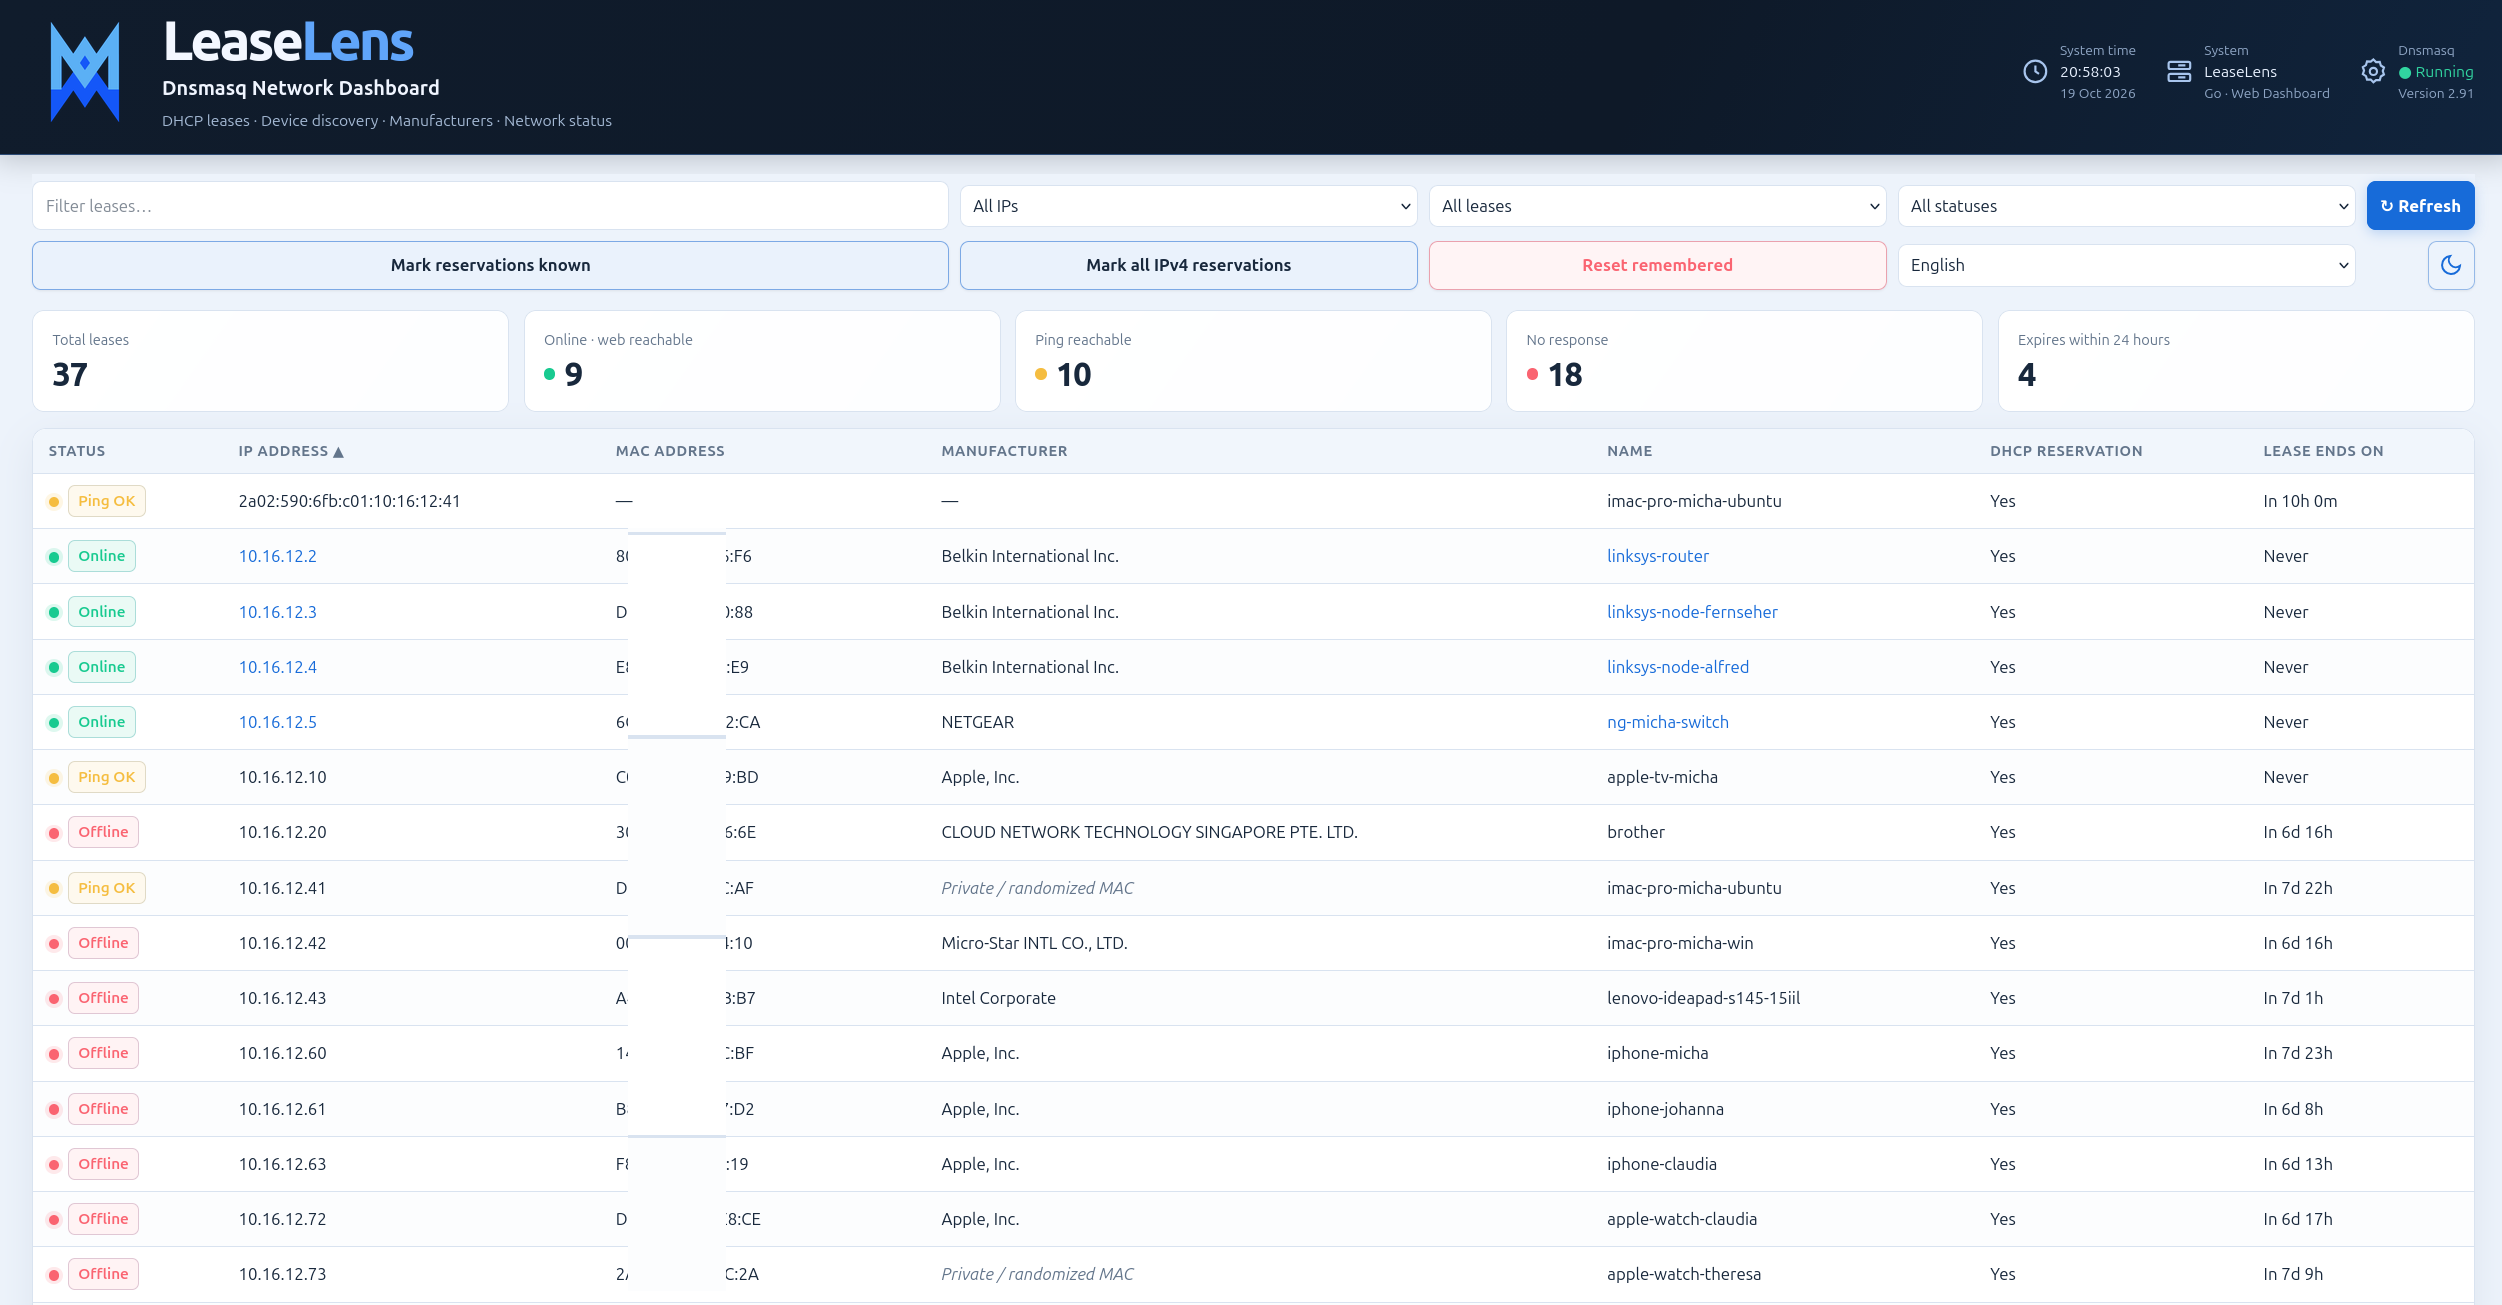
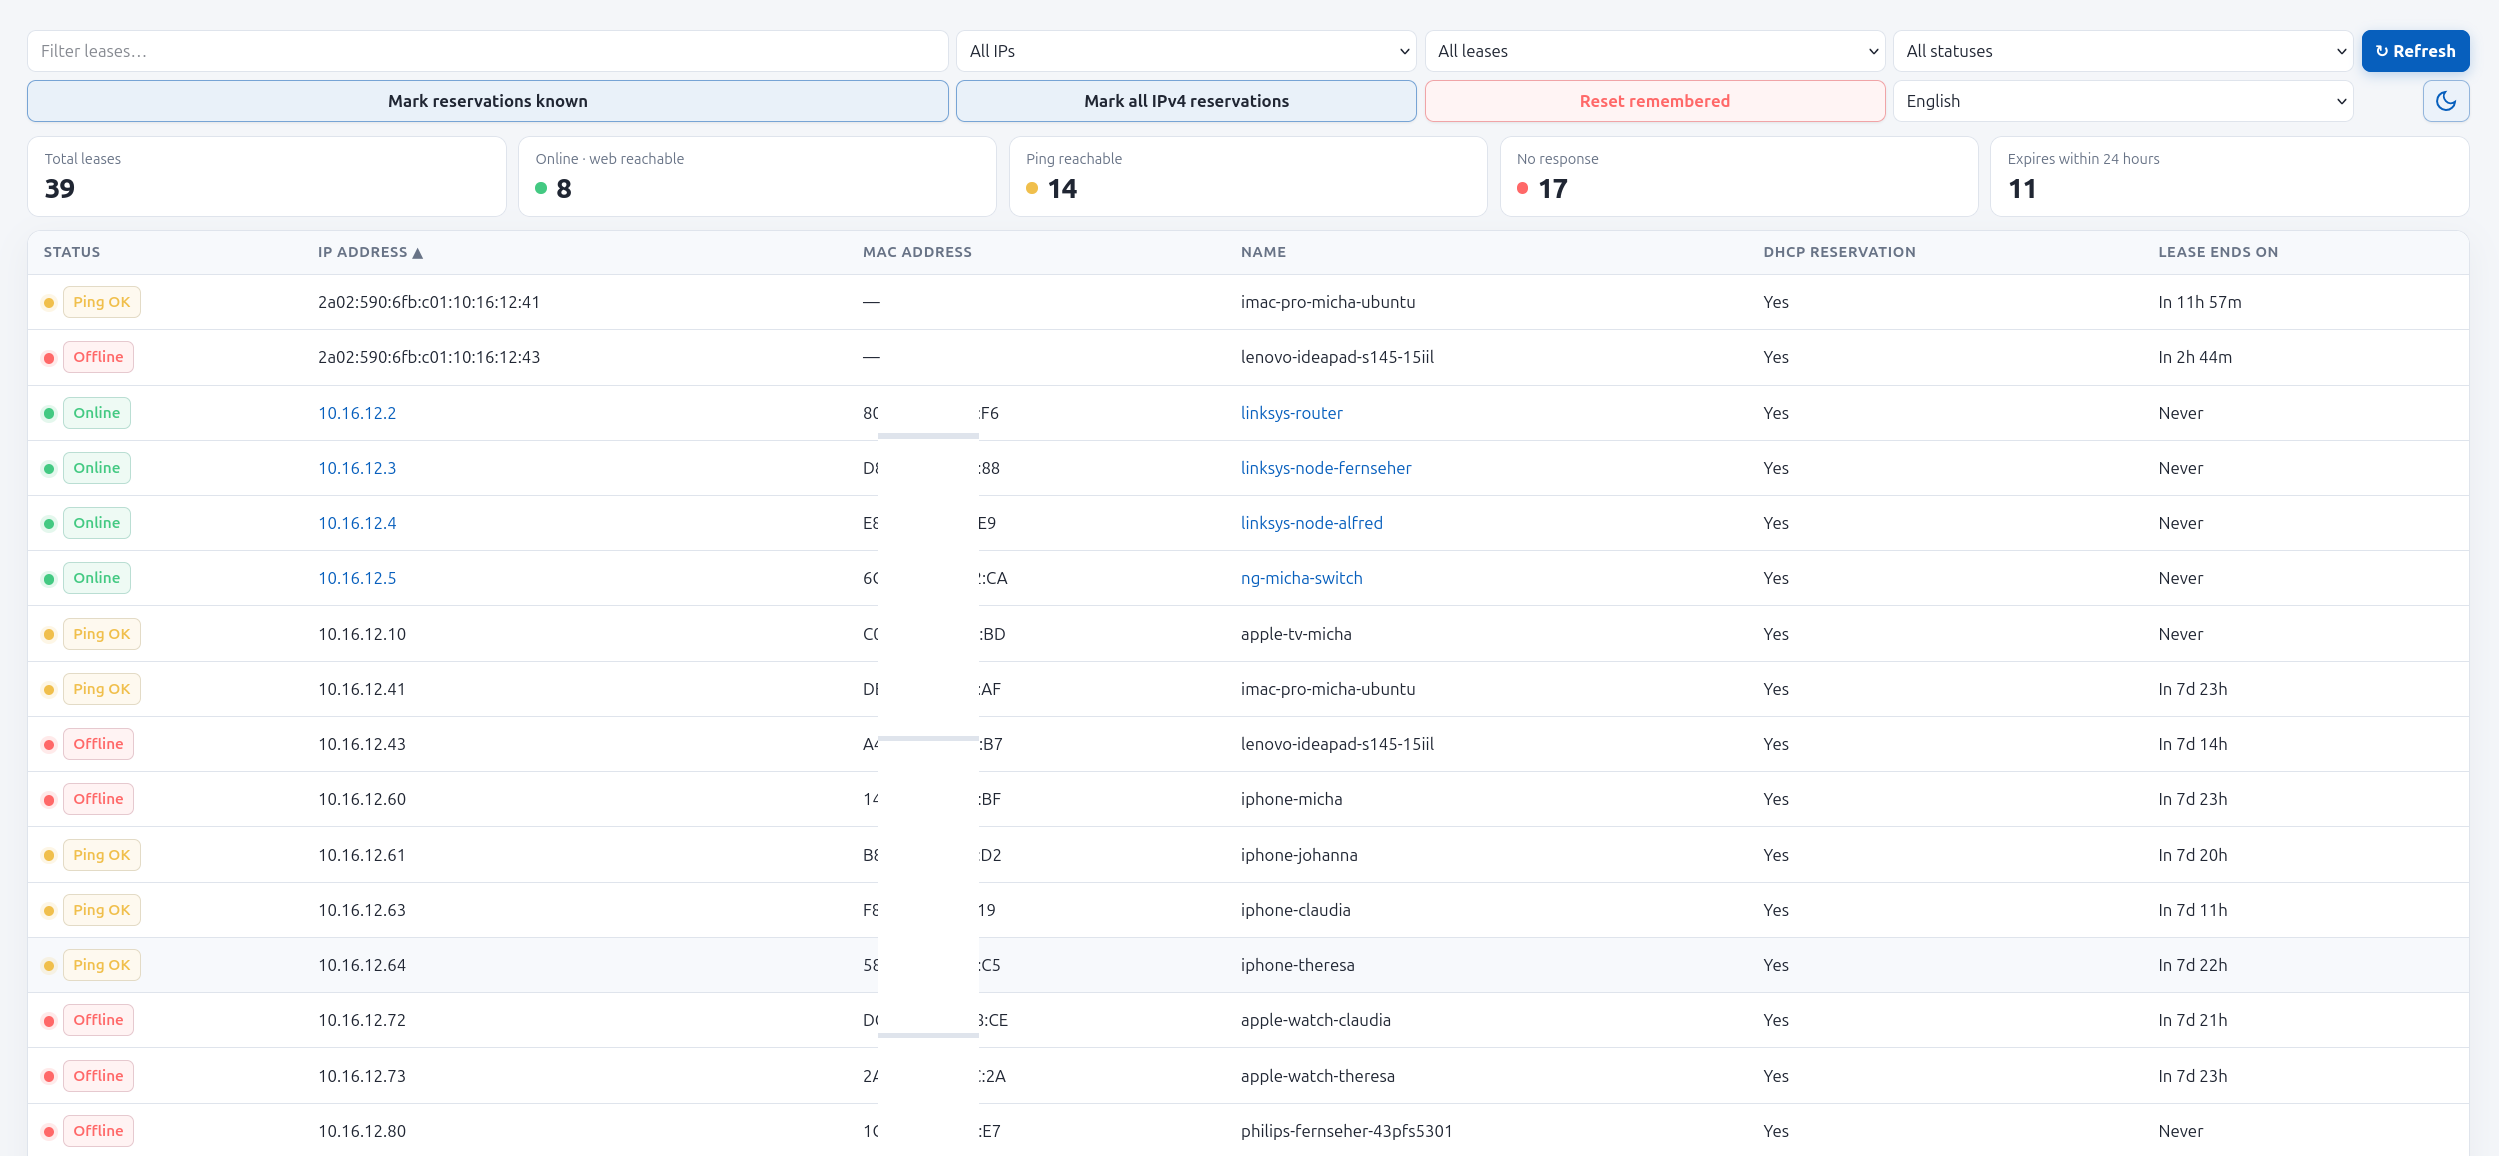
System

diff --git a/templates/index.html b/templates/index.html
@@ -160,7 +160,7 @@ tbody tr:hover { background:color-mix(in srgb,var(--accent) 10%,var(--surface))!
     <div class="brand-copy"><h1 id="brand-title">Lease<span>Lens</span></h1><p id="brand-subtitle" data-i18n="brandSubtitle">Dnsmasq Network Dashboard</p><p id="brand-description" data-i18n="brandDescription">DHCP Leases · Geräteerkennung · Hersteller · Netzwerkstatus</p></div>
     <div id="brand-meta" aria-label="Systeminformationen">
       <div class="brand-meta-item"><svg viewBox="0 0 24 24" fill="none" stroke="currentColor" stroke-width="1.8" aria-hidden="true"><circle cx="12" cy="12" r="9"/><path d="M12 7v5l3 2"/></svg><div><span class="brand-meta-label" data-i18n="systemTime">Systemzeit</span><span class="brand-meta-value" id="system-clock">--:--:--</span><span class="brand-meta-label" id="system-date">--.--.----</span></div></div>
-      <div class="brand-meta-item"><svg viewBox="0 0 24 24" fill="none" stroke="currentColor" stroke-width="1.8" aria-hidden="true"><rect x="3" y="4" width="18" height="6" rx="1.5"/><rect x="3" y="14" width="18" height="6" rx="1.5"/><path d="M7 7h.01M7 17h.01M11 7h6M11 17h6"/></svg><div><span class="brand-meta-label" data-i18n="systemLabel">System</span><span class="brand-meta-value">LeaseLens</span><span class="brand-meta-label" data-i18n="systemDescription">Go · Web Dashboard</span></div></div>
+      <div class="brand-meta-item"><svg viewBox="0 0 24 24" fill="none" stroke="currentColor" stroke-width="1.8" aria-hidden="true"><rect x="3" y="4" width="18" height="6" rx="1.5"/><rect x="3" y="14" width="18" height="6" rx="1.5"/><path d="M7 7h.01M7 17h.01M11 7h6M11 17h6"/></svg><div><span class="brand-meta-label" data-i18n="systemLabel">System</span><span class="brand-meta-value">{{.SystemName}}</span><span class="brand-meta-label" data-i18n="systemDescription">Go · Web Dashboard</span></div></div>
       <div class="brand-meta-item"><svg viewBox="0 0 24 24" fill="none" stroke="currentColor" stroke-width="1.8" aria-hidden="true"><path d="M12 2l2.2 2.2 3.1-.1.9 3 2.6 1.7-1 2.9 1 2.9-2.6 1.7-.9 3-3.1-.1L12 21l-2.2-2.2-3.1.1-.9-3-2.6-1.7 1-2.9-1-2.9 2.6-1.7.9-3 3.1.1z"/><circle cx="12" cy="12" r="3"/></svg><div><span class="brand-meta-label">Dnsmasq</span><span class="brand-meta-value" id="dnsmasq-state" data-i18n="dnsmasqRunning">● Läuft</span><span class="brand-meta-label" id="dnsmasq-version-label" data-i18n-version="{{.DnsmasqVersion}}">{{if .DnsmasqVersion}}Version {{.DnsmasqVersion}}{{else}}Status wird überwacht{{end}}</span></div></div>
     </div>
   </header>

diff --git a/internal/app/config.go b/internal/app/config.go
@@ -55,6 +55,7 @@ type Config struct {
 	AppVersion    string
 	ReleaseDate   string
 	RepoURL       string
+	SystemName    string
 }
 
 // loadConfig reads runtime options from environment variables.
@@ -69,6 +70,7 @@ func loadConfig() Config {
 		AppVersion:    getenv("APP_VERSION", buildVersion),
 		ReleaseDate:   getenv("APP_RELEASE_DATE", buildReleaseDate),
 		RepoURL:       getenv("REPO_URL", "https://github.com/anonymous-writer/leaselens-dnsmasq"),
+		SystemName:    getenv("SYSTEM_NAME", "LeaseLens"),
 	}
 }
 
@@ -123,6 +125,7 @@ func loadConfigFromArgs(args []string) (Config, string, error) {
 	flags.StringVar(&cfg.AppVersion, "app-version", cfg.AppVersion, "Application version (environment: APP_VERSION)")
 	flags.StringVar(&cfg.ReleaseDate, "release-date", cfg.ReleaseDate, "Application release date (environment: APP_RELEASE_DATE)")
 	flags.StringVar(&cfg.RepoURL, "repo-url", cfg.RepoURL, "Repository URL (environment: REPO_URL)")
+	flags.StringVar(&cfg.SystemName, "system-name", cfg.SystemName, "System display name (environment: SYSTEM_NAME)")
 
 	if err := flags.Parse(args); err != nil {
 		return Config{}, "", err
@@ -194,6 +197,8 @@ func applyConfigFile(path string, cfg *Config, logLevel *string) error {
 			cfg.ReleaseDate = value
 		case "repo_url", "repo-url":
 			cfg.RepoURL = value
+		case "system_name", "system-name":
+			cfg.SystemName = value
 		default:
 			return fmt.Errorf("config file %q line %d: unknown key %q", path, lineNo, key)
 		}

diff --git a/internal/app/handlers.go b/internal/app/handlers.go
@@ -36,7 +36,7 @@ func homeHandler(cfg Config, tmpl *template.Template, dnsmasqVersion string, ena
 			http.NotFound(w, r)
 			return
 		}
-		data := PageData{Version: cfg.AppVersion, ReleaseDate: cfg.ReleaseDate, RepoURL: cfg.RepoURL, DnsmasqVersion: dnsmasqVersion, EnableLeaseRelease: enableLeaseRelease}
+		data := PageData{Version: cfg.AppVersion, ReleaseDate: cfg.ReleaseDate, RepoURL: cfg.RepoURL, SystemName: cfg.SystemName, DnsmasqVersion: dnsmasqVersion, EnableLeaseRelease: enableLeaseRelease}
 		if err := tmpl.Execute(w, data); err != nil {
 			LogErrorf("cannot render home page: %v", err)
 			http.Error(w, "template error", http.StatusInternalServerError)

diff --git a/internal/app/models.go b/internal/app/models.go
@@ -52,6 +52,7 @@ type PageData struct {
 	Version            string
 	ReleaseDate        string
 	RepoURL            string
+	SystemName         string
 	DnsmasqVersion     string
 	EnableLeaseRelease bool
 }

diff --git a/README.md b/README.md
@@ -228,9 +228,10 @@ The `mark-reservations` response also includes a `count` field. These endpoints 
 | `APP_VERSION` | `dev` | Version shown by the application |
 | `APP_RELEASE_DATE` | empty | Build/release date shown by the application |
 | `REPO_URL` | `https://github.com/anonymous-writer/leaselens-dnsmasq` | Repository URL shown in the UI |
+| `SYSTEM_NAME` | `LeaseLens` | Custom system label displayed in the header, e.g. `Raspberry Pi 5` or `Homeserver` |
 | `LOG_LEVEL` | `INFO` | Minimum log level: `DEBUG`, `INFO`, `WARN`, or `ERROR` |
 
-For native installs, manufacturer lookup uses an installed local OUI database when available (for example, Debian/Raspberry Pi OS package `ieee-data`). Set `OUI_DATABASE_FILE` to override its path. Docker images include a local IEEE OUI database. If no database is found, leases still load and the manufacturer column shows “Unknown”.\n\nThe same runtime settings can be supplied in a flat YAML-style configuration file. Example: [`config.example.yaml`](config.example.yaml). To use it, copy it to `/home/pi/Dnsmasq-Leases-UI/config.yaml` and launch the binary with `--config /home/pi/Dnsmasq-Leases-UI/config.yaml` (the supplied systemd unit does this). `CONFIG_FILE` can also specify the file path. Supported keys are `host`, `port`, `leases_file`, `hosts_file`, `known_macs_file`, `dhcp_interface`, `log_level`, `app_version`, `release_date`, and `repo_url`.
+For native installs, manufacturer lookup uses an installed local OUI database when available (for example, Debian/Raspberry Pi OS package `ieee-data`). Set `OUI_DATABASE_FILE` to override its path. Docker images include a local IEEE OUI database. If no database is found, leases still load and the manufacturer column shows “Unknown”.\n\nThe same runtime settings can be supplied in a flat YAML-style configuration file. Example: [`config.example.yaml`](config.example.yaml). To use it, copy it to `/home/pi/Dnsmasq-Leases-UI/config.yaml` and launch the binary with `--config /home/pi/Dnsmasq-Leases-UI/config.yaml` (the supplied systemd unit does this). `CONFIG_FILE` can also specify the file path. Supported keys are `host`, `port`, `leases_file`, `hosts_file`, `known_macs_file`, `dhcp_interface`, `log_level`, `app_version`, `release_date`, `repo_url`, and `system_name`.
 
 Precedence is **defaults < environment variables < config file < command-line flags**. Available flags include `--config`, `--host`, `--port`, `--leases-file`, `--hosts-file`, `--known-macs-file`, `--dhcp-interface`, `--log-level`, `--app-version`, `--release-date`, and `--repo-url`.
 
